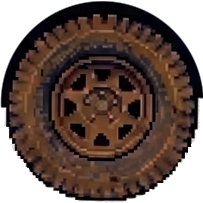
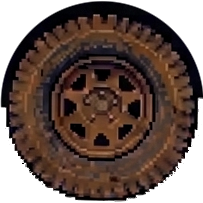
Finish cleaning the Jeep's edges
Three separate things were making a pale rim, and only the first was what I had
already fixed.

Unmixing the halo: keying leaves blended pixels which are neither body nor backdrop.
Removing them by threshold only works where the blend is darker than the paint — the
white wheel arches blend towards 222 against a 186 backdrop, which no threshold can
tell from slightly-shaded white. They are unmixed instead: each edge pixel is
C = a*F + (1-a)*B for a known backdrop and a foreground taken from the nearest interior
pixel, so projecting C-B onto F-B recovers the coverage. Nothing is eroded, which is
what lets the 11px flag pole and the 2px details through.

Colour bleed: sprites are stored unpremultiplied, so every downscale mixes the RGB of
*transparent* pixels into the semi-transparent edge, and keying only clears alpha — the
transparent side still held the grey it was cut from. Filled with the nearest opaque
colour, mean 186 down to 31, so there is nothing but vehicle to bleed. This one is
invisible at full size, which is what makes it easy to miss.

The specks: small white marks sitting right on the silhouette, which are highlight dabs
in the pixel art that pass for keying dirt once the Jeep is over dark sand. They are
what made the ring around the tyres. The first speckle pass missed them because it only
looked at partly-transparent pixels and these are solid. Capped at 30px, measured
against the largest such blob anywhere on the vehicle being 26px, so the paint is never
[…]

diff --git a/docs/index.html b/docs/index.html
@@ -20,7 +20,7 @@
 <meta name="mobile-web-app-capable" content="yes">
 <meta name="apple-mobile-web-app-status-bar-style" content="black-translucent">
 <meta name="apple-mobile-web-app-title" content="Simmo Run">
-<link rel="stylesheet" href="style.css?v=1785237094">
+<link rel="stylesheet" href="style.css?v=1785238278">
 </head>
 <body>
 <div id="game-wrap">
@@ -61,7 +61,7 @@
     <p class="press-space"><span class="kbd-only">press <span class="key">space</span> to start</span><span class="touch-only"><span class="key">tap</span> to start</span></p>
   </div>
 
-  <!-- Filled from the BIKES table in game.js?v=1785237094, so the markup can't drift out of step
+  <!-- Filled from the BIKES table in game.js?v=1785238278, so the markup can't drift out of step
        with the bikes that actually exist. The cards show the difficulty rather than
        the machine. Sits low, down in the sand, to leave the pub and the bike clear. -->
   <div id="bike-pick" role="radiogroup" aria-label="Choose difficulty"></div>
@@ -78,6 +78,6 @@
     <p class="press-space"><span class="kbd-only">press <span class="key">space</span> to try again</span><span class="touch-only"><span class="key">tap</span> to try again</span></p>
   </div>
 </div>
-<script src="game.js?v=1785237094"></script>
+<script src="game.js?v=1785238278"></script>
 </body>
 </html>

diff --git a/index.html b/index.html
@@ -78,6 +78,6 @@
     <p class="press-space"><span class="kbd-only">press <span class="key">space</span> to try again</span><span class="touch-only"><span class="key">tap</span> to try again</span></p>
   </div>
 </div>
-<script src="game.js?v=1785237087"></script>
+<script src="game.js?v=1785238271"></script>
 </body>
 </html>

diff --git a/assets/prep_jeep.py b/assets/prep_jeep.py
@@ -81,32 +81,108 @@ def key_background(im):
         "RGBA")
 
 
-def defringe(rgb, alpha, tone, tol=26, passes=4):
-    """Peel background-coloured pixels off the silhouette edge.
+def defringe(rgb, alpha, tone):
+    """Replace the halo with a properly estimated alpha edge.
 
-    Keying a white vehicle off a grey backdrop leaves a halo. The anti-aliased pixels
-    between body and background are neither tone, so a band tight enough to spare the
-    white paint lets them through, and they show up as a bright rim once the Jeep is
-    composited over the sand.
+    Keying a vehicle off a flat backdrop leaves a rim of blended pixels which are
+    neither body nor background. Removing them by colour only works where the blend is
+    darker than the paint: the white wheel arches blend towards 222 against a 186
+    backdrop, which is indistinguishable by threshold from slightly-shaded white paint,
+    and a band wide enough to catch it eats the bodywork.
 
-    Removed by colour rather than by eroding the mask: the flag pole is 11px wide and
-    there are features down to 2px, which a blanket erosion would eat. Nothing else on
-    the vehicle is both greyish and within tol of the backdrop — the paint sits at 230+,
-    the pole at 126-148 and the tyres at 106 — so only the halo goes.
+    So they are unmixed instead. Each edge pixel is C = a*F + (1-a)*B for an unknown
+    coverage a, a known backdrop B and a foreground F taken from the nearest interior
+    pixel. Projecting C-B onto F-B recovers a, and the pixel keeps F at that alpha —
+    which is what the artwork would have had over a transparent background. Thin
+    features survive because nothing is eroded; the flag pole is 11px wide and there
+    are 2px details that a blanket erosion would eat.
+
+    Pixels whose neighbourhood is itself near the backdrop tone are left alone: with
+    F close to B there is no direction to project onto and a is meaningless.
     """
-    a = alpha.copy()
-    greyish = (rgb.max(axis=2) - rgb.min(axis=2)) <= 24
-    near_bg = greyish & (np.abs(rgb.mean(axis=2) - tone) <= tol)
+    h, w = alpha.shape
+    op = alpha > 0
+    interior = ndimage.binary_erosion(op, iterations=3)
+    if not interior.any():
+        return alpha, 0
+    # nearest interior pixel for every position, to stand in as the local foreground
+    idx = ndimage.distance_transform_edt(~interior, return_indices=True)[1]
+    F = rgb[idx[0], idx[1]].astype(float)
+    B = np.array([tone, tone, tone], float)
+
+    d = F - B
+    denom = (d * d).sum(axis=2)
+    C = rgb.astype(float) - B
+    a = np.divide((C * d).sum(axis=2), denom, out=np.ones_like(denom),
+                  where=denom > 400)          # |F-B| > 20 per channel, roughly
+    a = np.clip(a, 0.0, 1.0)
+
+    band = op & ~interior & (denom > 400)
+    out_a = alpha.copy().astype(float)
+    out_a[band] = a[band] * 255.0
+    changed = int((np.abs(out_a - alpha) > 8).sum())
+    # take the estimated foreground colour, so what is left is the paint and not a
+    # mixture of paint and backdrop
+    rgb[band] = np.clip(F[band], 0, 255).astype(int)
+
+    # Whatever survives that and is still a small, bright, half-transparent blob is
+    # blend residue rather than artwork — the specks left around the tyres where the
+    # local foreground estimate had nothing dark to project onto. Solid paint is spared
+    # by the alpha test (the wheel arch sits at 255) and the long anti-aliased roofline
+    # by the size test, being one component thousands of pixels long.
+    lum = rgb.mean(axis=2)
+    speck = (out_a > 8) & (out_a < 250) & (lum > 190)
+    lab, n = ndimage.label(speck)
     removed = 0
-    for _ in range(passes):
-        op = a > 0
-        edge = op & ~ndimage.binary_erosion(op)
-        drop = edge & near_bg
-        if not drop.any():
-            break
-        removed += int(drop.sum())
-        a[drop] = 0
-    return a, removed
+    if n:
+        for i in range(1, n + 1):
+            m = lab == i
+            size = int(m.sum())
+            if size <= 120:
+                out_a[m] = 0
+                removed += size
+    # And the small *fully opaque* white marks sitting right on the silhouette edge —
+    # highlight dabs in the pixel art that pass for keying dirt once the vehicle is
+    # over dark sand, which is where the ring of white specks around the tyres came
+    # from. The alpha test above skips them because they are solid; the size cap is
+    # what keeps the white bodywork out of it: measured, the largest such blob anywhere
+    # on the vehicle is 26px, so a 30px cap clears them all without reaching the paint.
+    sat = rgb.max(axis=2) - rgb.min(axis=2)
+    near_edge = ndimage.distance_transform_edt(out_a > 8) <= 3
+    dabs = (out_a > 8) & (lum > 195) & (sat < 40) & near_edge
+    lab2, n2 = ndimage.label(dabs)
+    for i in range(1, n2 + 1):
+        m = lab2 == i
+        size = int(m.sum())
+        if size <= 30:
+            out_a[m] = 0
+            removed += size
+
+    if removed:
+        print(f"  cleared {removed}px of leftover bright speckle")
+    return out_a.astype(np.uint8), changed
+
+
+def bleed_colour(rgb, alpha):
+    """Push the vehicle's colours out into the transparent region.
+
+    Sprites are stored with unpremultiplied alpha, so every downscale — optimise.py's,
+    then the canvas drawing it smaller than stored — mixes the RGB of *transparent*
+    pixels into the semi-transparent edge. Keying only clears alpha, so those pixels
+    still hold the grey backdrop they were cut from, and the Jeep grows a pale rim the
+    moment it is drawn at anything but 1:1. It measures clean at full size, which is
+    what makes it easy to miss.
+
+    Filling the transparent side with the nearest opaque colour leaves nothing but
+    vehicle to bleed. The alpha channel is untouched, so the silhouette is unchanged.
+    """
+    opaque = alpha > 0
+    if not opaque.any():
+        return rgb
+    idx = ndimage.distance_transform_edt(~opaque, return_indices=True)[1]
+    out = rgb.copy()
+    out[~opaque] = rgb[idx[0], idx[1]][~opaque]
+    return out
 
 
 def underside(mask):
@@ -193,8 +269,10 @@ def main():
 
     # Before anything is cut or punched, so the wheel discs inherit a clean rim too.
     # After the wheels are measured, so the geometry comes off the full silhouette.
-    arr[:, :, 3], halo = defringe(arr[:, :, :3].astype(int), arr[:, :, 3], BG_TONE)
-    print(f"  removed {halo}px of background halo from the edges")
+    _rgb = arr[:, :, :3].astype(int)
+    arr[:, :, 3], halo = defringe(_rgb, arr[:, :, 3], BG_TONE)
+    arr[:, :, :3] = _rgb.astype(np.uint8)
+    print(f"  unmixed {halo}px of background halo along the edges")
 
     # A Jeep wheel is solid, so there is nothing to see through it and no reason to
     # redraw it from scratch. Each disc is cut straight out of the artwork here and the
@@ -215,6 +293,8 @@ def main():
         # feathered at the rim, or rotating it shows a jagged edge
         edge = np.clip((r - dist) / 1.5 + 1.0, 0.0, 1.0)
         disc[:, :, 3] = (disc[:, :, 3].astype(float) * edge).astype(np.uint8)
+        disc[:, :, :3] = bleed_colour(disc[:, :, :3].astype(int),
+                                      disc[:, :, 3]).astype(np.uint8)
         out_wheel = os.path.join(HERE, f"jeep-wheel-{name}.png")
         Image.fromarray(disc, "RGBA").save(out_wheel)
         print(f"  cut {os.path.basename(out_wheel)}: {side}x{side}, r {r:.1f}")
@@ -225,6 +305,8 @@ def main():
         punched += int((inside & (arr[:, :, 3] > 0)).sum())
         arr[inside, 3] = 0
     print(f"  punched {punched}px out of the two wheels")
+
+    arr[:, :, :3] = bleed_colour(arr[:, :, :3].astype(int), arr[:, :, 3]).astype(np.uint8)
 
     out = Image.fromarray(arr, "RGBA")
     bbox = out.getbbox()
